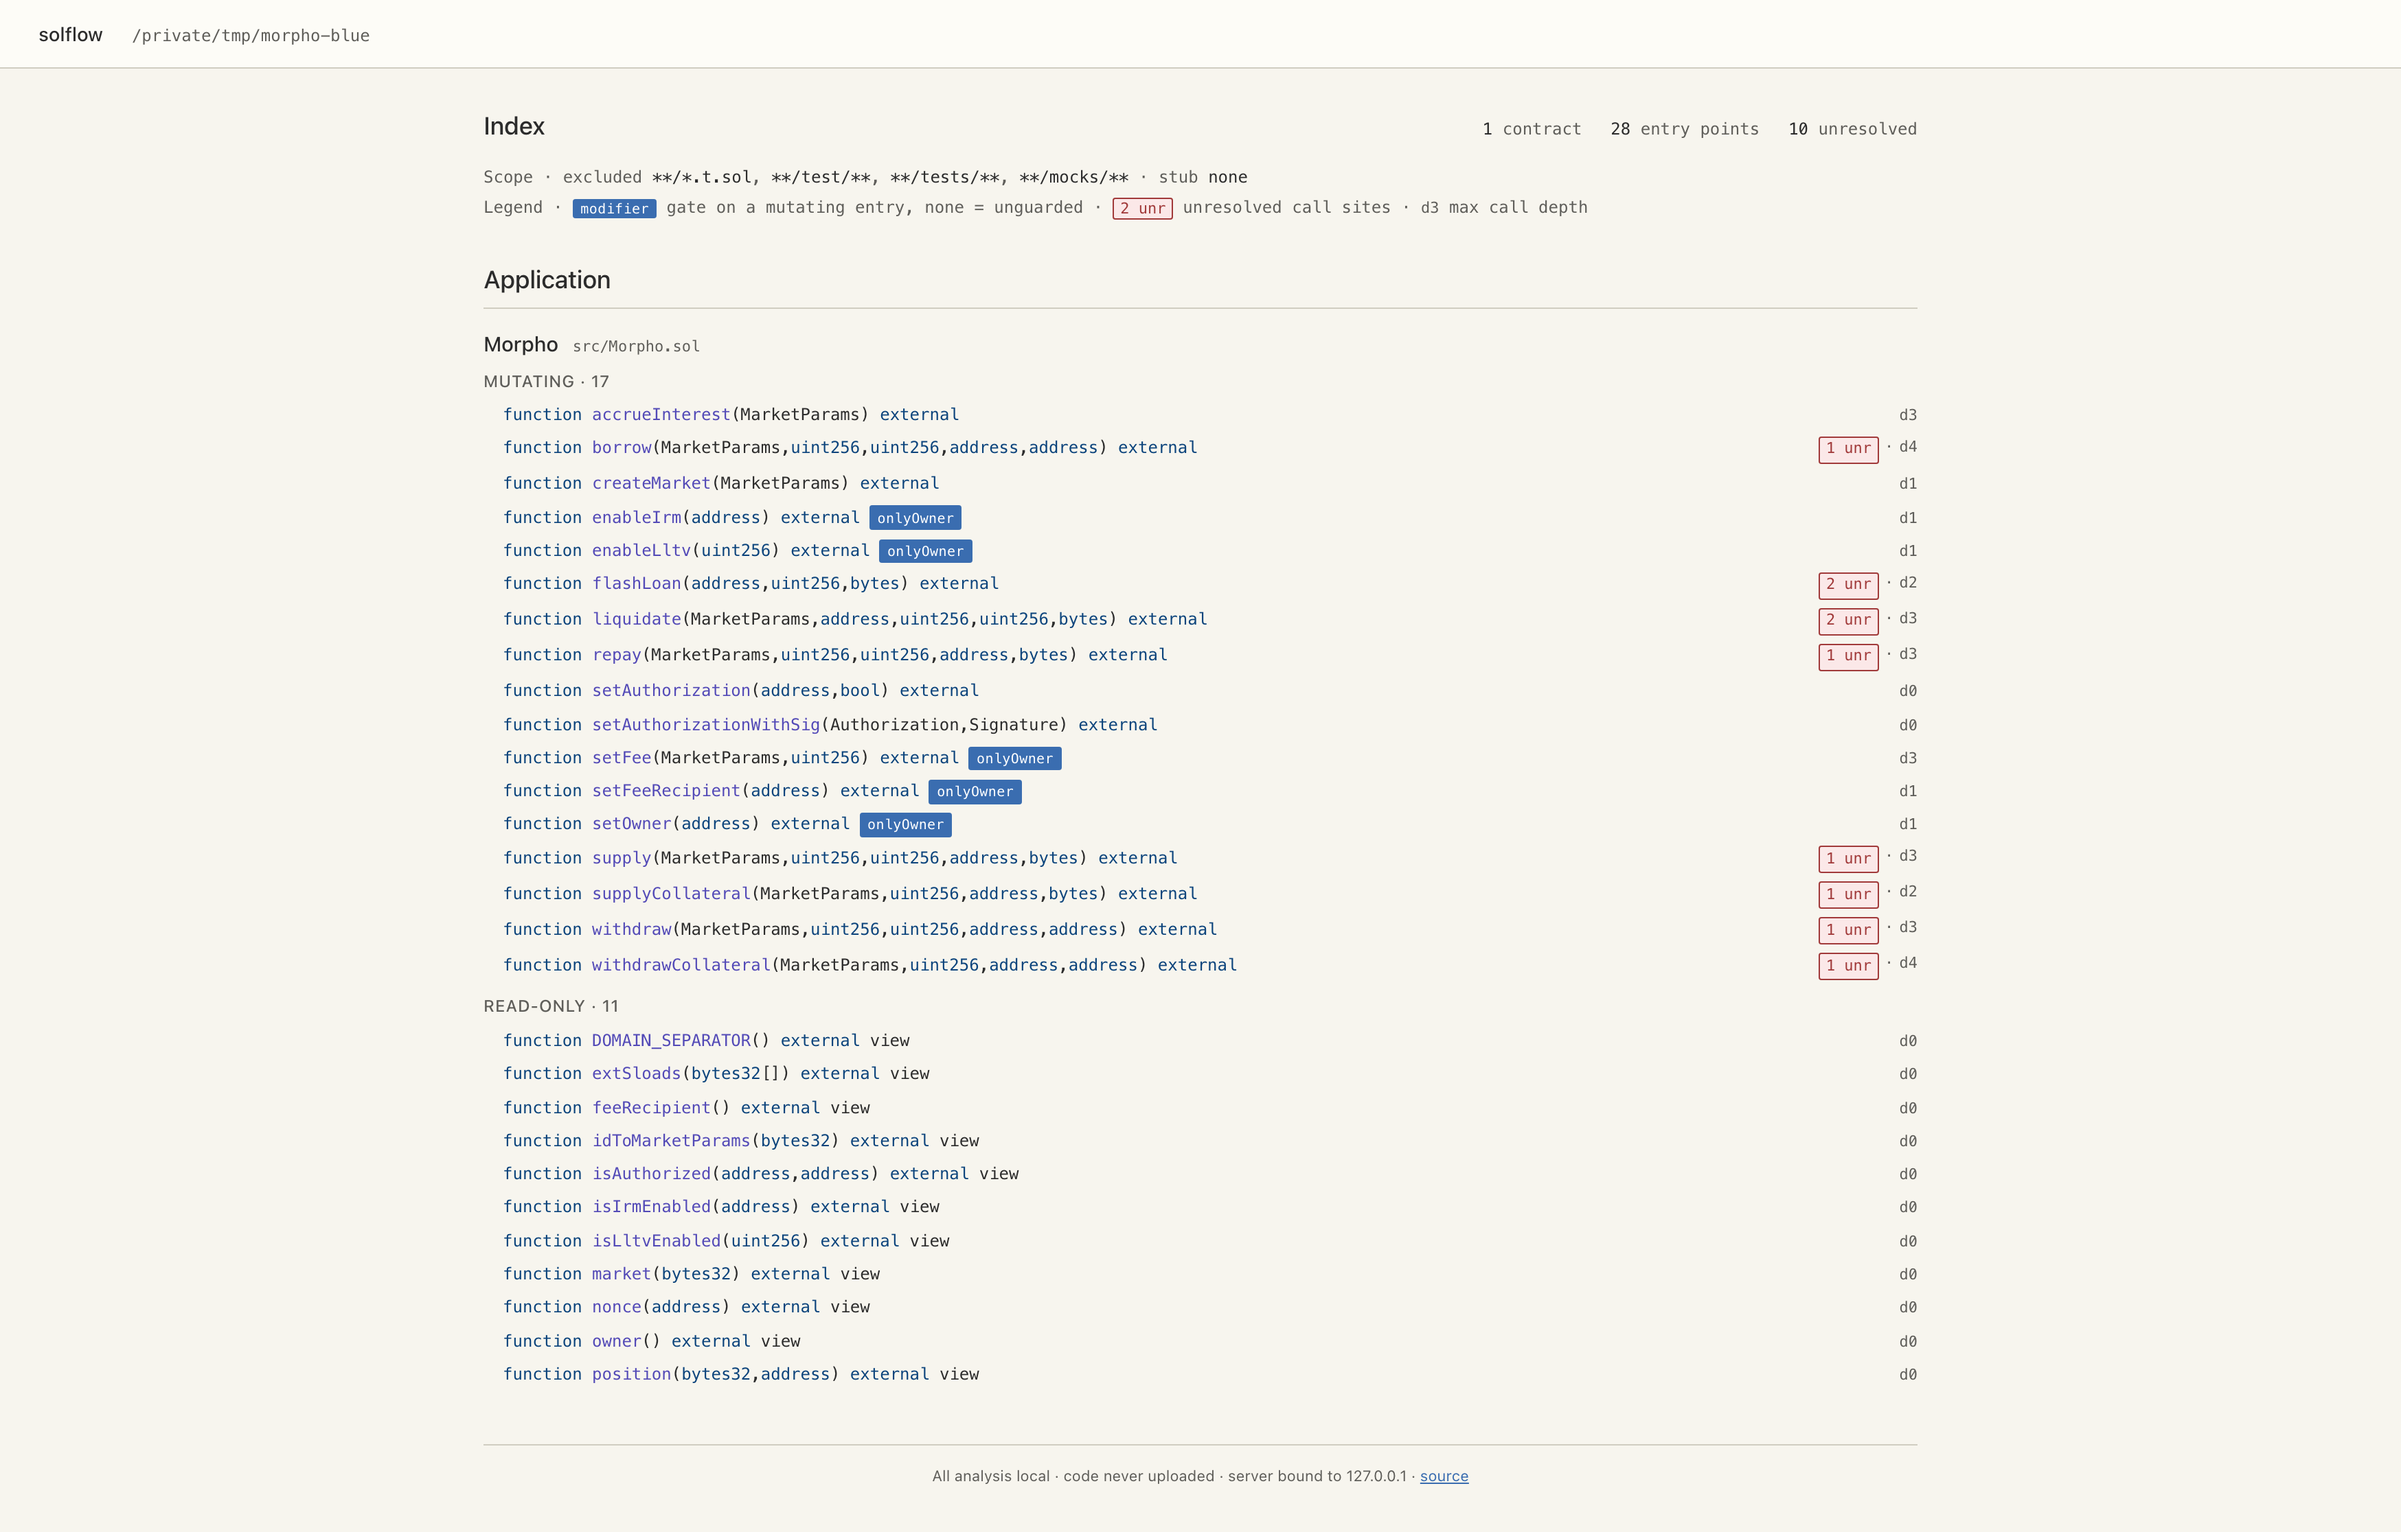
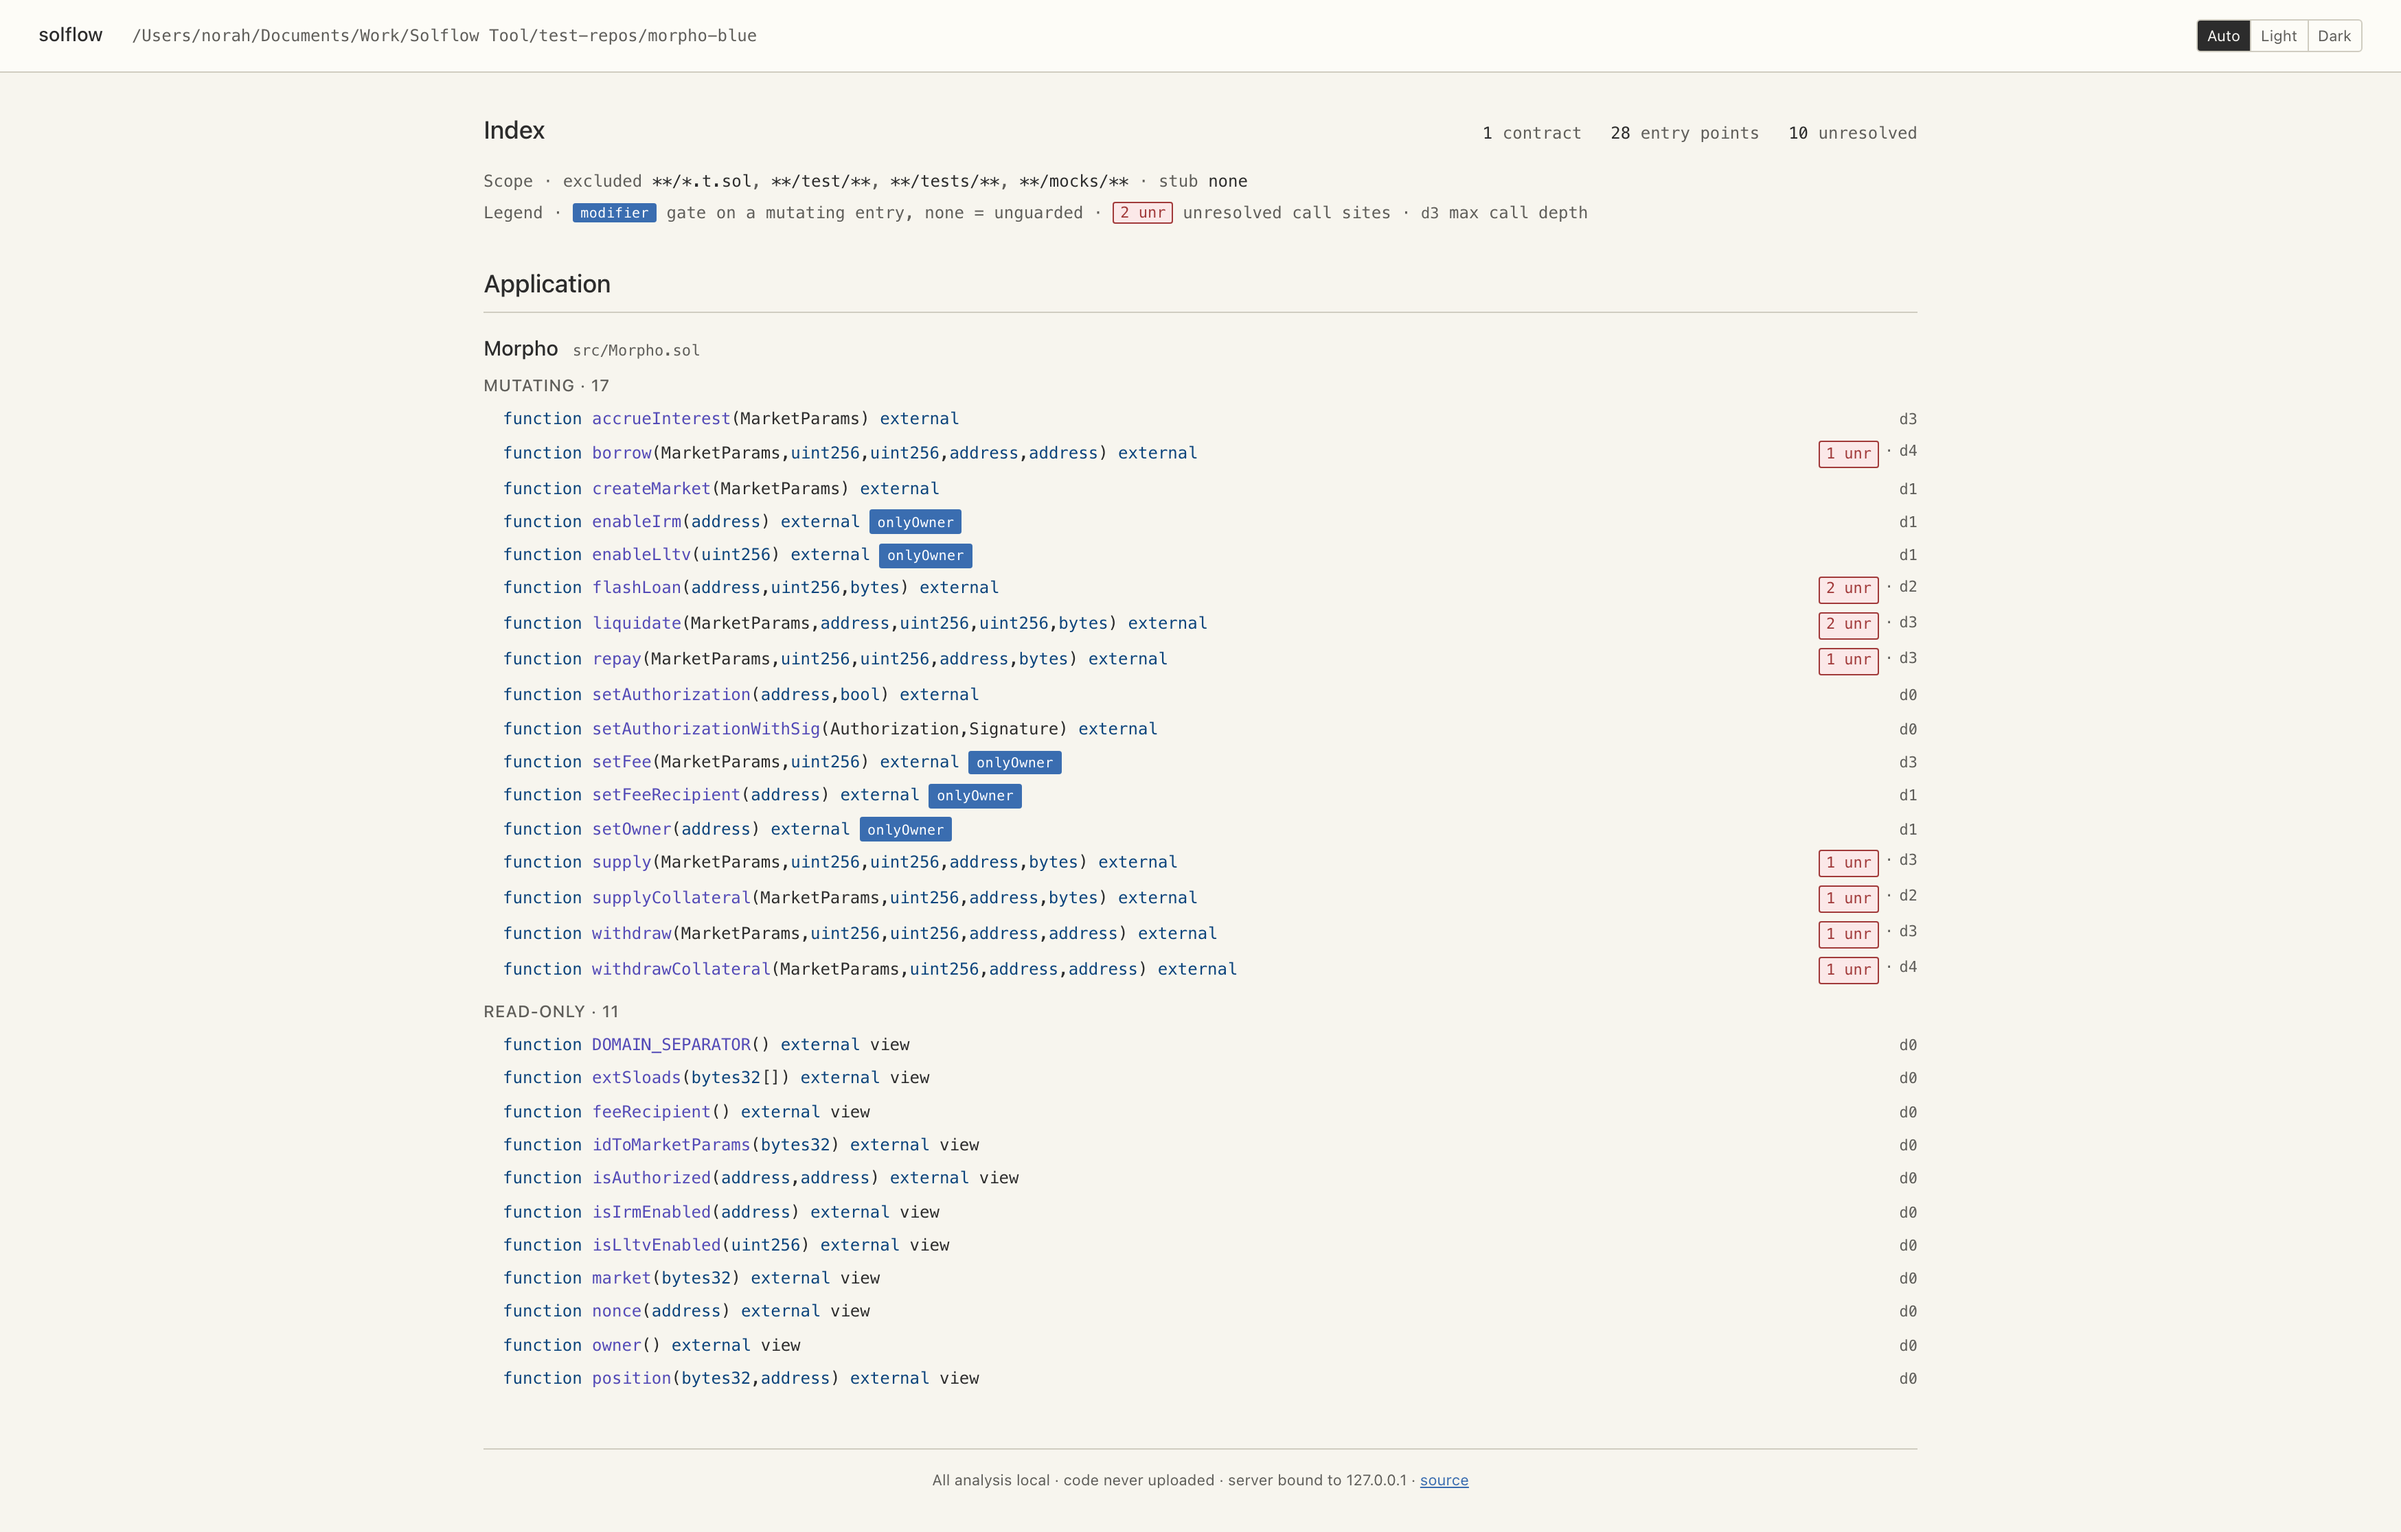
docs: regenerate demo.gif (calm chip, plays once), refresh stills, note theme toggle
demo.gif rebuilt from the calm-chip dark capture and set to play once and rest
on the dark-mode finale instead of looping back to the terminal. The three
stills are refreshed to the current v0.11+ UI (Retina). README gains a "Light
or dark" feature bullet for the theme toggle; the detail still alt-text drops
the inaccurate "inherited" (library calls are labeled library, not inherited).

diff --git a/README.md b/README.md
@@ -25,6 +25,7 @@ The first job in any audit is reconstructing what actually happens when someone 
 - **One Flow per entry point.** The index lists every externally callable function, grouped by contract and split into mutating vs. read-only, with modifier badges, call-tree depth, and unresolved-target counts per entry: the whole audit surface on one page.
 - **Real source, not boxes.** Every node renders the target function's actual code, syntax-highlighted and line-numbered. Click a call site and the callee expands beside it, the edge anchored to the exact line that makes the call.
 - **Progressive or bird's-eye.** Flows open at the root and expand on demand, so you reveal only the paths you're tracing. `--expand-all` renders the full call tree at page load for a complete overview.
+- **Light or dark.** A header toggle sets the palette — Auto (follows your OS), Light, or Dark — so long audit sessions stay easy on the eyes. The choice is server-rendered: no flash on load, and your preference never leaves the machine.
 - **It never silently lies.** When a call target can't be resolved statically (an interface with no bound implementation, `addr.call(...)`, computed-target Yul), the node is explicitly marked unresolved, with the reason. No guessing, no silent omissions. The auditor's trust in a Flow's completeness within its declared scope is the load-bearing property.
 - **Scope you control.** Inline a dependency, stub a dense in-tree math library, or exclude test and mock contracts, via `solflow.toml` or CLI flags (see [Configuration](#configuration)).
 - **Local and private.** Analysis runs entirely on your machine and the server binds only to `127.0.0.1`. Audit code under NDA is never uploaded anywhere.
@@ -121,7 +122,7 @@ Opening an entry point renders its full call flow; every callee panel shows the 
 
 ![Expanded call-flow graph of Morpho.liquidate](https://raw.githubusercontent.com/norah1499/solidity-flow-navigator/main/docs/flow-liquidate-overview.png)
 
-![Zoomed view of the liquidate flow with inherited library functions](https://raw.githubusercontent.com/norah1499/solidity-flow-navigator/main/docs/flow-liquidate-detail.png)
+![Zoomed view of the liquidate flow with library functions](https://raw.githubusercontent.com/norah1499/solidity-flow-navigator/main/docs/flow-liquidate-detail.png)
 
 </details>
 
